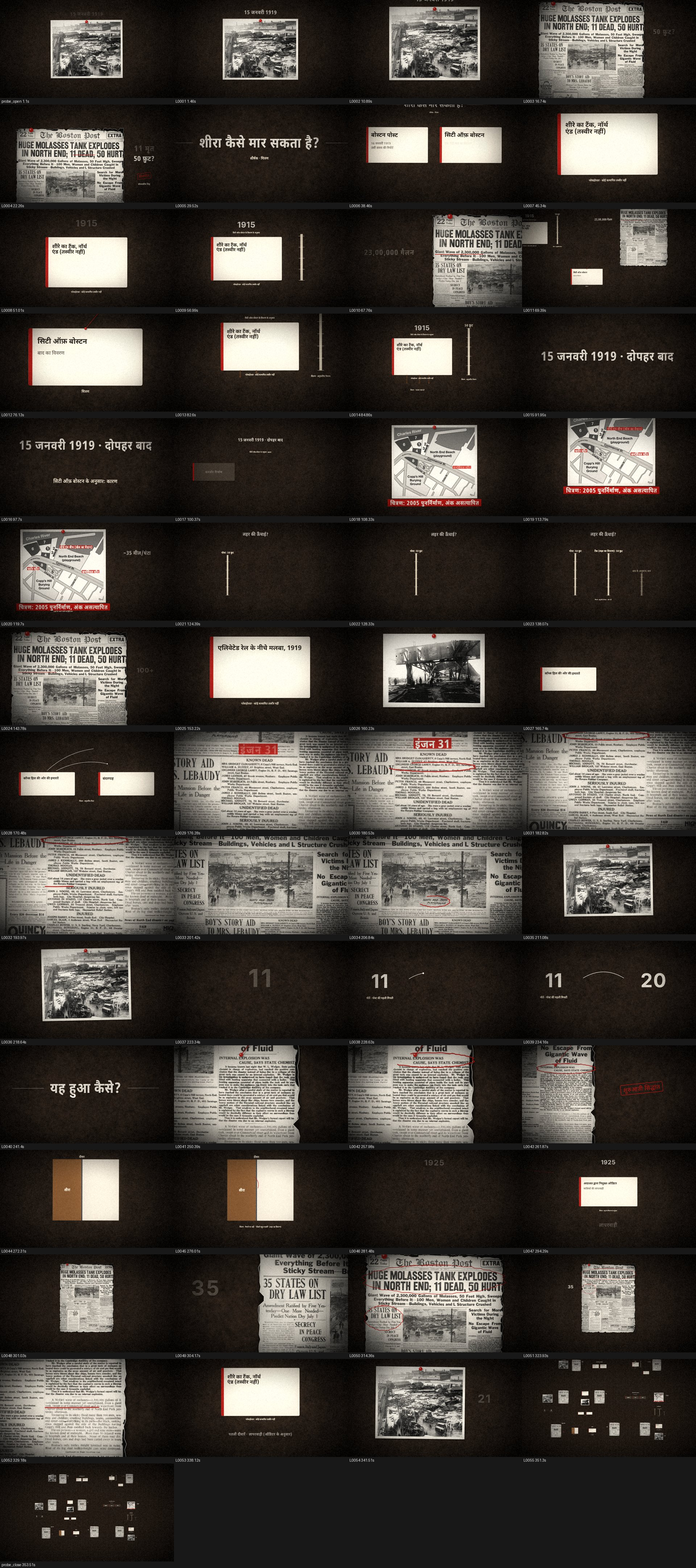
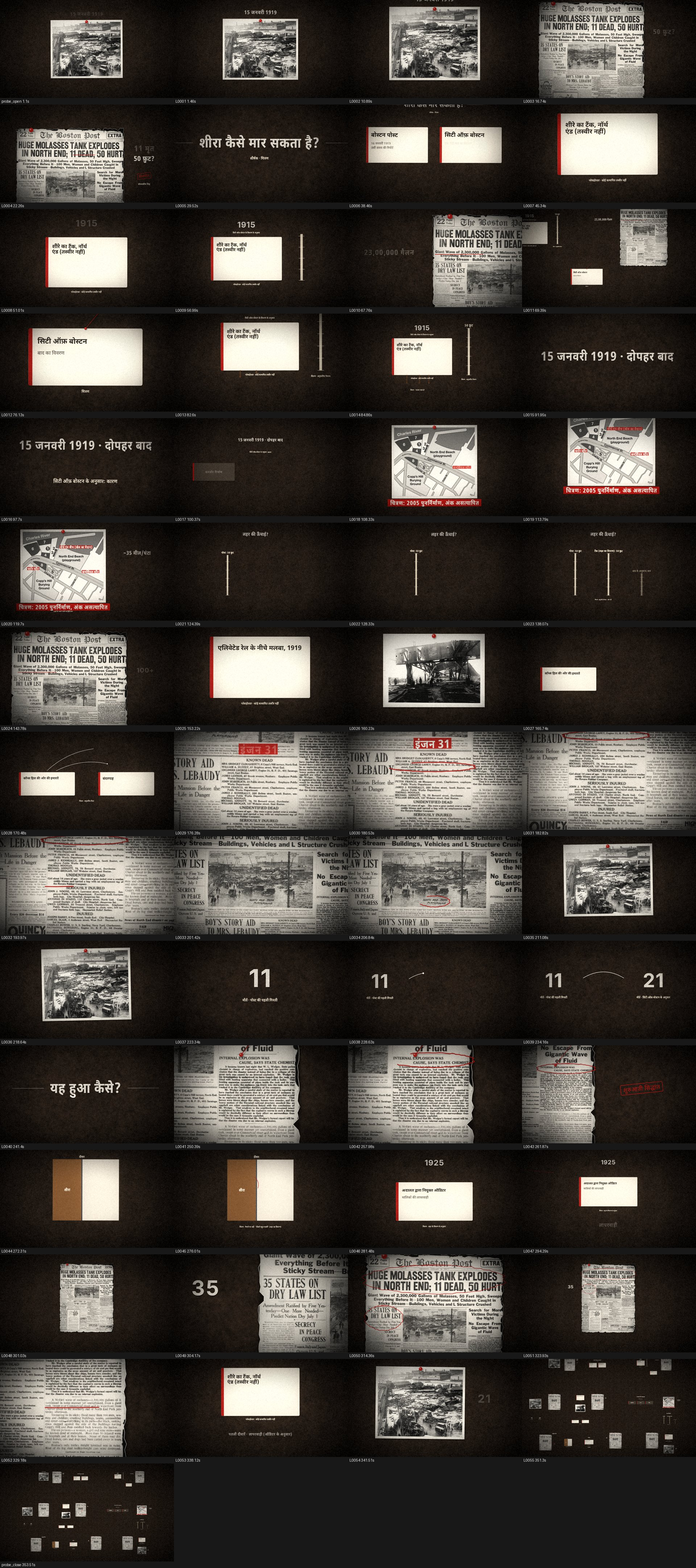
Phase 7: motion check of the Hindi act (numeral timing, closing frame); review stage updated through docpipe; look awaiting approval
Claude-Session: https://claude.ai/code/session_01BAr5kQk576SVVXZRxXZaan

diff --git a/productions/molasses-flood/editions/hi/06_film/act_01/scene.py b/productions/molasses-flood/editions/hi/06_film/act_01/scene.py
@@ -748,10 +748,11 @@ def build_film(doc):
     pano2 = photo(vis(35)["need"], O[0] - 6400, O[1] + 600, 3800, 35, rot=-1.0, move=None)
     pb = item_box(doc, pano2)
     TX, TY = O[0] - 6400, O[1] + 5600
-    t11 = put(BigText(BY_LINE[37]["typed"], TX - 1200, TY, 520, W(37, "ग्यारह") - 0.15, rgb=TYPE), 37)
-    put(Tag("मौतें · पोस्ट की पहली गिनती", TX - 1200, TY + 300, W(37, "ग्यारह") + 0.2), 37)
-    put(Counter(TX + 1500, TY, 520, 21, W(39, "इक्कीस") - 0.6, dur=1.0, start=11, rgb=TYPE), 39, (TX + 900, TY - 450, TX + 2100, TY + 120))
-    put(Tag("मौतें · सिटी ऑफ़ बोस्टन के अनुसार", TX + 1500, TY + 300, W(39, "इक्कीस") + 0.2), 39)
+    t11 = put(BigText(BY_LINE[37]["typed"], TX - 1200, TY, 520, L(37) + 0.1, rgb=TYPE), 37)
+    put(Tag("मौतें · पोस्ट की पहली गिनती", TX - 1200, TY + 300, L(37) + 0.5), 37)
+    put(Counter(TX + 1500, TY, 520, 21, L(39) + 0.2, dur=max(1.0, W(39, "इक्कीस") - 0.2 - (L(39) + 0.2)), start=11, rgb=TYPE), 39,
+        (TX + 900, TY - 450, TX + 2100, TY + 120))
+    put(Tag("मौतें · सिटी ऑफ़ बोस्टन के अनुसार", TX + 1500, TY + 300, L(39) + 0.6), 39)
     put(Route((TX - 400, TY - 250), (TX + 700, TY - 250), L(38) + 0.3, dur=0.8, bend=-0.3), 38, (TX - 400, TY - 500, TX + 700, TY - 250))
 
     # ---------------- SEC07: explosion or negligence ----------------
@@ -772,9 +773,9 @@ def build_film(doc):
     put(Tag("चित्रण · पैमाने पर नहीं · 'दीवारें बहुत पतली' (शहर का विवरण)", WX, WY + 1460, W(44, "दीवारें")), 44)
     put(PenMark("strike", WX - 156, WY - 200, 600, 900, t_in=W(45, "दरार") - 0.2, width=14, rot=78), 45,
         (WX - 600, WY - 700, WX + 300, WY + 300))
-    typed(46, WX + 7000, WY - 1500, W(46, "पच्चीस") - 0.15, 300)
-    c1925 = card(WX + 7000, WY - 100, 3000, 1500, 46, "अदालत द्वारा नियुक्त ऑडिटर", ["मालिकों की लापरवाही"], t=W(46, "पच्चीस") + 0.1, size=150)
-    put(Tag("चित्रण · शहर के विवरण के अनुसार", WX + 7000, WY + 900, W(46, "पच्चीस") + 0.3), 46)
+    typed(46, WX + 7000, WY - 1500, W(46, "पच्चीस") - 0.6, 300)
+    c1925 = card(WX + 7000, WY - 100, 3000, 1500, 46, "अदालत द्वारा नियुक्त ऑडिटर", ["मालिकों की लापरवाही"], t=L(46) + 0.1, size=150)
+    put(Tag("चित्रण · शहर के विवरण के अनुसार", WX + 7000, WY + 900, L(46) + 0.5), 46)
     typed(47, WX + 7000, WY + 1700, W(47, "लापरवाही") - 0.15, 260)
     put(StringLine((O[0], O[1] - 2000), (WX + 7000, WY - 850), W(47, "लापरवाही") - 0.6, dur=0.9, persist=True), 47)
 
@@ -783,7 +784,7 @@ def build_film(doc):
     q6 = post(vis(48)["need"], O[0], O[1], 4200, 48)
     q6_states = region(q6, doc, 0.012, 0.298, 0.262, 0.428)
     q6_head = region(q6, doc, 0.02, 0.075, 0.99, 0.215)
-    typed(49, q6_states[0] - 900, q6_states[1] + 300, W(49, "पैंतीस") - 0.15, 330)
+    typed(49, q6_states[0] - 900, q6_states[1] + 300, W(49, "पैंतीस") - 0.6, 330)
     put(PenMark("ellipse", (q6_states[0] + q6_states[2]) / 2, (q6_states[1] + q6_states[3]) / 2, (q6_states[2] - q6_states[0]) * 1.08,
                 (q6_states[3] - q6_states[1]) * 1.06, t_in=W(50, "शराबबंदी") - 0.2, width=14), 50, q6_states)
     put(PenMark("ellipse", (q6_head[0] + q6_head[2]) / 2, (q6_head[1] + q6_head[3]) / 2, (q6_head[2] - q6_head[0]) * 1.04,
@@ -867,8 +868,8 @@ def build_film(doc):
 
     # the close: the whole board, every item inside the safe area
     allb = union([b for it, b, j in reg if b])
-    z_all = fit_zoom(allb, 1.0) * TIGHTEST * 0.96
-    cx, cy = centre(allb, z_all / TIGHTEST * TIGHTEST)
+    z_all = min(3840 * 0.90 / (allb[2] - allb[0]), 2160 * 0.86 / (allb[3] - allb[1]))
+    cx, cy = (allb[0] + allb[2]) / 2, (allb[1] + allb[3]) / 2
     last = aims[54]
     film.shot(L(55) + 0.3, last[0], last[1], last[2])
     film.shot(L(55) + (E(55) - L(55)) * 0.45, (last[0] + cx) / 2, (last[1] + cy) / 2, max(z_all * 1.8, 0.15), radius=20000, strength=0.15)

diff --git a/productions/molasses-flood/reviews/look_refinement.md b/productions/molasses-flood/reviews/look_refinement.md
@@ -51,3 +51,26 @@ Stills regenerated with the stage's own command (`review.py`): **57 stills, 9 st
 review.py: 57 stills, 9 strips, 0 flags. rights.py check: ok, 12 images used, 0 not usable.
 Tests: test_review, test_gates, test_scenegen, test_rights, test_editions, test_title_cards,
 test_composition, test_engine_visual, test_lang_hi: all OK.
+
+## Motion check (after the producer's approval of the visual direction)
+
+Probed in motion (frames between the stills) and adjusted timing and the closing frame only; no
+redesign, no other edits. Before → after:
+
+| Check | Before | After |
+|---|---|---|
+| L37 "11" | ~2 s of empty board (221.3–223.2 s) before 11 landed on its word | 11 lands as the line begins, its caption with it |
+| L39 11 → 21 | the arc pointed at nothing for ~2.4 s; the counter started 0.6 s before "इक्कीस" and the still caught it at "20" | the counter is there from the line's start at 11 and rolls to land on 21 just before "इक्कीस" (233.9 s; word at 234.2 s) |
+| L46 "1925" | ~3 s of empty board (278.4–281.3 s); the year still fading on its word | the auditor card is there as the line begins; 1925 fully landed before it is spoken |
+| L49 "35" | half faded on its word | fully landed before "पैंतीस" |
+| Closing | complete board, about 60 % of the frame width, off-centre | complete board, centred, about 90 % of the width (86 % height); the narration and captions are over by then |
+
+The L55 still is taken during the pull-back (edges in motion); `probe_close` is the settled frame.
+`reviews/look/motion_check.jpg` shows the five moments.
+
+Then, through the gate workflow: `docpipe.py run --lang hi --only review` (runs only when every gate
+before it is approved; nothing upstream re-run, so the approved audio is untouched).
+review@hi: **awaiting approval [gate], 0 errors, 0 warnings**; 57 stills, 9 strips, 0 flags.
+rights.py check: ok, 12 images, 0 not usable.
+
+Tests after the motion check: test_review, test_gates, test_scenegen, test_rights, test_composition: all OK.
